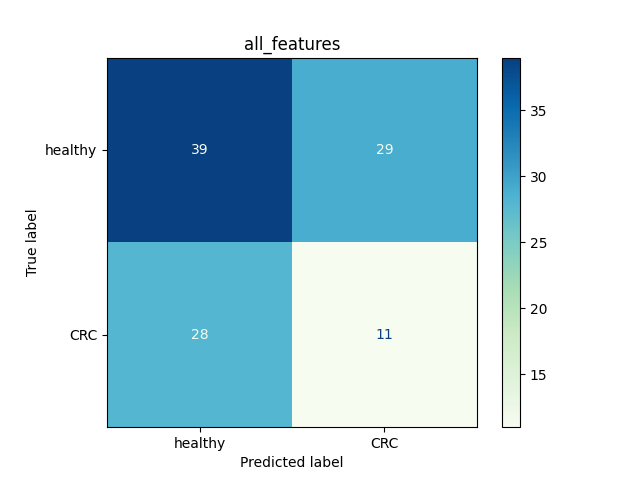
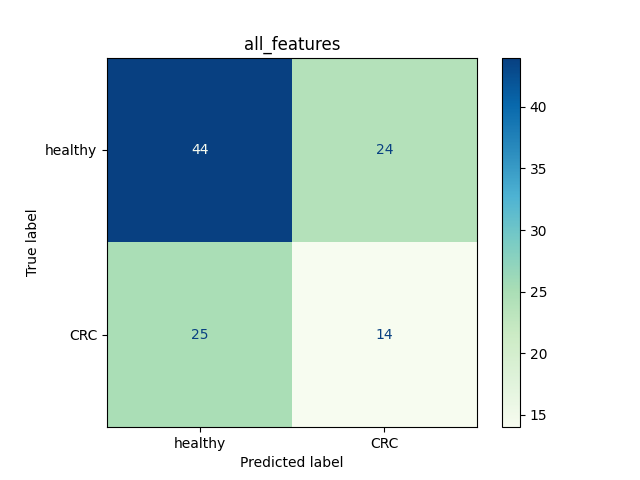
model comparison

diff --git a/xgb_hyperparams_y_o.py b/xgb_hyperparams_y_o.py
@@ -44,12 +44,12 @@ young_old_labels_path = 'data/Yang_PRJNA763023/SraRunTable.csv'
 
 
 def grid_search_rf(X_train, X_test, y_train, y_test, X_val, y_val, data_name, file_name, group):
-    n_estimators= [150] #np.arange(100, 21, dtype=int)
-    max_depth = np.arange(2, 5, 1, dtype=int)
-    gamma = [0.001, 0.01, 0.1] #np.arange(0.5, 1.2, 0.2, dtype=int)
-    max_leaves = np.arange(2, 9, 2)
-    min_child_weight = [3, 6, 9]  # np.arange(5, , 5, dtype=int),
-    learning_rate = [0.01, 0.1] # 0.5, 1],
+    n_estimators= [30] #np.arange(100, 21, dtype=int)
+    max_depth = [3] #np.arange(2, 9, 3, dtype=int)
+    gamma = [0.1] #np.arange(0.5, 1.2, 0.2, dtype=int)
+    #max_leaves = np.arange(2, 9, 2)
+    min_child_weight = [6, 12]  # np.arange(5, , 5, dtype=int),
+    learning_rate = [0.1] # [0.01, 0.1] # 0.5, 1],
     subsample = [0.5]
     reg_alpha = [0.5, 1, 2]
     reg_lambda = [0.5, 1, 2]
@@ -60,7 +60,7 @@ def grid_search_rf(X_train, X_test, y_train, y_test, X_val, y_val, data_name, fi
             'n_estimators': n_estimators,
             'max_depth': max_depth,
             #'gamma': gamma,
-            'max_leaves': max_leaves,
+            #'max_leaves': max_leaves,
             #'min_child_weight': min_child_weight,
             'learning_rate': learning_rate,
             'subsample': subsample,
@@ -76,11 +76,11 @@ def grid_search_rf(X_train, X_test, y_train, y_test, X_val, y_val, data_name, fi
             'n_estimators': n_estimators,
             'max_depth': max_depth,
             'gamma': gamma,
-            'max_leaves': max_leaves,
+            #'max_leaves': max_leaves,
             'min_child_weight': min_child_weight,
             'learning_rate': learning_rate,
             'subsample': subsample,
-            'sample_pos_weight': [1.05],
+            #'sample_pos_weight': [1.05],
             'random_state': random_state,
             'reg_alpha': reg_alpha,
             'reg_lambda': reg_lambda
@@ -92,7 +92,7 @@ def grid_search_rf(X_train, X_test, y_train, y_test, X_val, y_val, data_name, fi
             'n_estimators': n_estimators,
             'max_depth': max_depth,
             #'gamma': gamma,
-            'max_leaves': max_leaves,
+            #'max_leaves': max_leaves,
             #'min_child_weight': min_child_weight,
             'learning_rate': learning_rate,
             'subsample': subsample,
@@ -116,10 +116,10 @@ def grid_search_rf(X_train, X_test, y_train, y_test, X_val, y_val, data_name, fi
 
     train_scores_gridsearch = []
     test_scores_gridsearch = []
-    cv = KFold(n_splits=10, random_state=1234, shuffle=True)
+    cv = KFold(n_splits=5, random_state=1234, shuffle=True)
     # Perform the grid search
     grid_search = GridSearchCV(estimator=model, param_grid=param_grid, cv=cv, scoring=scoring, refit='roc_auc',
-                               return_train_score=True, n_jobs=-1)
+                               return_train_score=True, n_jobs=16)
 
     print(f"fitting GridSearch on {file_name}")
     grid_search.fit(X_train, y_train)
